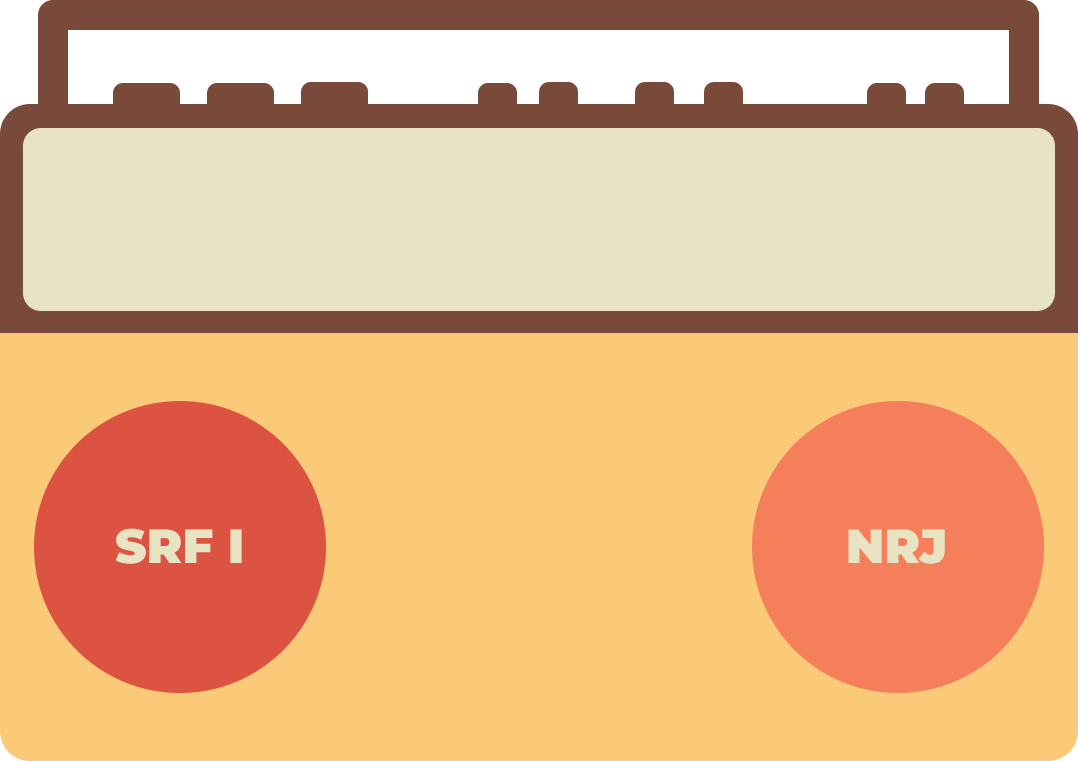
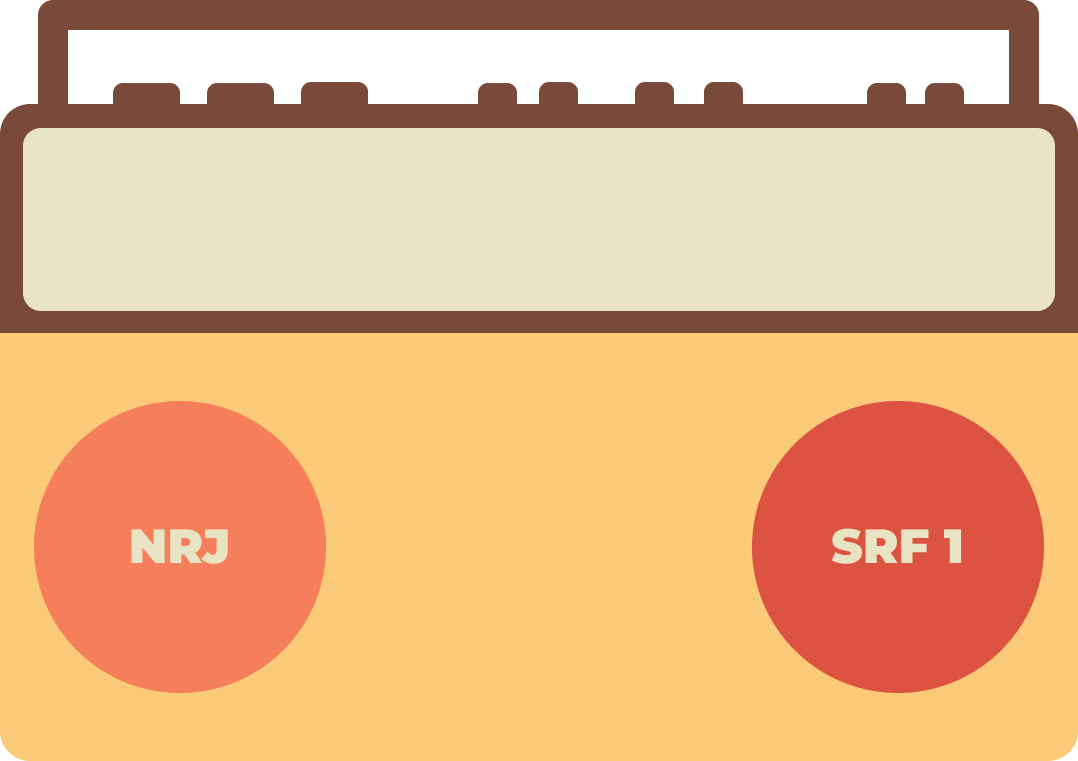
Function innert HTML

Changed region(s): [[0.6735, 0.5138, 0.9796, 0.9369], [0.0306, 0.5138, 0.3061, 0.9369]]

diff --git a/js/script.js b/js/script.js
@@ -1,14 +1,19 @@
 // -> Ausgabe Daten
 let data = null
 
+let api_data = [];
+
 // -> API
 async function get30days(artist) {
     const url = `https://im3.alinabosshard.ch/backend/api/get30days.php?artist=${artist}`;
     try {
         const response = await fetch(url);
-        const api_data = await response.json();
-        console.log(data);
+        api_data = await response.json();
         data = api_data
+        console.log(data);
+        showData(data,artist);
+
+            
 
         // Array für Chart aufbereiten
         const chartData = prepareChartData(data);
@@ -33,13 +38,13 @@ async function get30days(artist) {
          label: '',
          data: [],
          borderWidth: 0,
-         backgroundColor:"rgb(221, 83, 65, 100)",
+         backgroundColor:"rgb(245, 127, 91, 100)",
        },
        {
          label: '',
          data: [],
          borderWidth: 0,
-         backgroundColor:"rgb(245, 127, 91, 100)",
+         backgroundColor:"rgb(221, 83, 65, 100)",
        }
      ]
    },
@@ -84,7 +89,7 @@ async function get30days(artist) {
 
 // -> Datenaufbereitung
 function prepareChartData(rawData) {
-    // 1⃣ Leeres Objekt für Tageszählung
+    // Leeres Objekt für Tageszählung
     const counts = {};
   
     rawData.forEach((item) => {
@@ -104,14 +109,14 @@ function prepareChartData(rawData) {
       if (item.sender === "srf") counts[formattedDate].srf++;
     });
   
-    // 2⃣ Sortieren nach Datum
+    // Sortieren nach Datum
     const sortedKeys = Object.keys(counts).sort((a, b) => {
       const [dayA, monthA] = a.split(".").map(Number);
       const [dayB, monthB] = b.split(".").map(Number);
       return new Date(2025, monthA - 1, dayA) - new Date(2025, monthB - 1, dayB);
     });
   
-    // 3⃣ Arrays für Chart erzeugen
+    // Arrays für Chart erzeugen
     const labels = sortedKeys.slice(-30); // nur die letzten 30 Tage
     const nrjData = labels.map((d) => counts[d].nrj);
     const srfData = labels.map((d) => counts[d].srf);
@@ -127,6 +132,14 @@ function prepareChartData(rawData) {
     chart.update();
   }
   
+  const homescreeninfo = `
+    <h1>Wer dominiert die Radioplaylists?</h1>
+    <p>Ob Dauerbrenner oder Überraschungshit, erfährst du, welche Artists die letzten 30 Tage bei SRF 1 und Energy besonders oft liefen. Einfach Namen eingeben und die Grafik verrät dir, wie präsent dein Artist war.</p>
+    `;
+
+    let anzeige = document.querySelector("#anzeige");
+    anzeige.innerHTML = homescreeninfo;
+
   // -> Suchfunktion
   const input = document.querySelector("#artist");
   const btn_go = document.querySelector("#go");
@@ -135,5 +148,35 @@ function prepareChartData(rawData) {
     const artist = input.value.trim();
     if (artist) {
       get30days(artist);
-    }
-  });
+      
+}});
+
+
+function showData(data,artist){
+    let srf_count = 0;
+        let nrj_count = 0;
+
+        // -> Zusammenzählen aller Einträge
+        data.forEach(async(item) => {
+        if(item.sender == "srf") srf_count ++;
+        if(item.sender == "nrj") nrj_count ++;     
+        } );
+
+        console.log(srf_count);
+        console.log(nrj_count);
+
+    //->innerHTML 
+    let artistinfo = `
+        <p>So oft spielten die Radios</p>
+        <h1>${artist}</h1>
+        <p>in den letzten 30 Tagen</p>
+        <h2>${srf_count}</h2>
+        <p>Mal auf SRF 1 gespielt</p>
+        <h2>${nrj_count}</h2>
+        <p>Mal auf NRJ gespielt</p>
+        `;
+        anzeige.innerHTML = artistinfo;
+        }
+
+
+

diff --git a/index.html b/index.html
@@ -17,14 +17,8 @@
     <canvas id="chart"></canvas>
     <script src="https://cdn.jsdelivr.net/npm/moment@2.30.1/moment.min.js"></script>
     <script src="https://cdn.jsdelivr.net/npm/chart.js"></script>
-    
-    <div>
-        <h1>Wer dominiert die Radioplaylists?</h1>
-    </div>
 
-    <div>
-        <p>Ob Dauerbrenner oder Überraschungshit, erfährst du, welche Artists die letzten 30 Tage bei SRF 1 und Energy besonders oft liefen. Einfach Namen eingeben und die Grafik verrät dir, wie präsent dein Artist war.</p>
-    </div>
+    <div id="anzeige"></div>
 
     <input type="text" name="artist" id="artist">
     <button id='go'>GOOOOOO</button>
